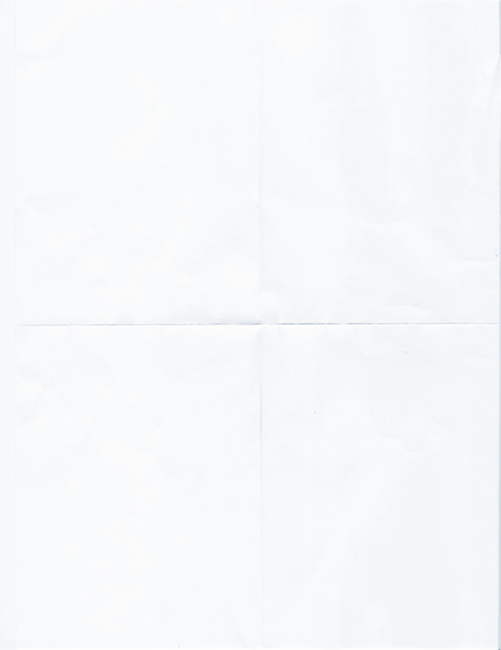
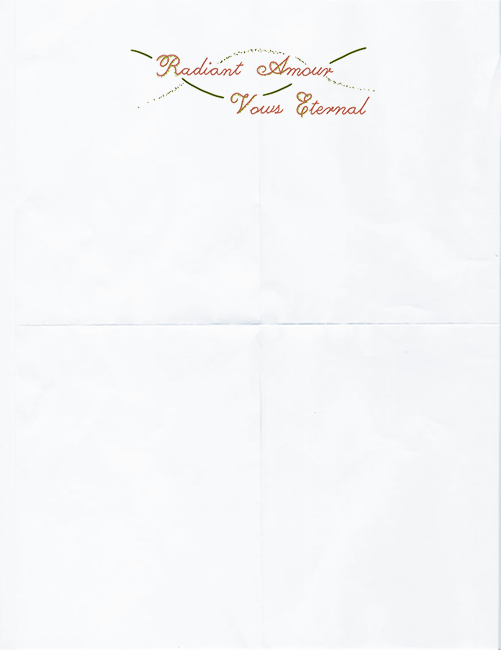
updated letter from intro

Changed region(s): [[0.2695, 0.0615, 0.7485, 0.1846], [0.6886, 0.0615, 0.7186, 0.0923]]

diff --git a/index-fr.html b/index-fr.html
@@ -93,8 +93,20 @@
     <div class="popup"><a>×</a><p>CLIQUEZ ICI<br>POUR NAVIGUER</p><img  src="assets/popup-sign.svg" alt="CLIQUEZ ICI POUR NAVIGUER"></div>
     <div class="content-scroll" id="content">
         <section id="intro">
-            <img class="letter" src="assets/lettre.png"
-                alt="Vous êtes cordialement invités au mariage d'Emma Forgues et Nicolas Levy ! Une fin de semaine célébrant l'amour, le plein air, la musique et la danse. Du 6 au 8 septembre 2024 dans un camp de vacances à 1h de Montréal. Nous espérons vous y voir ! xoxo - Nic & Emma">
+            <img class="letter" src="assets/letter.png" alt="Vous êtes cordialement invités au mariage d'Emma Forgues et Nicolas Levy ! Une fin de semaine célébrant l'amour, le plein air, la musique et la danse; Du 6 au 8 septembre 2024 dans un camp de vacances à 1h de Montréal. Nous espérons vous y voir ! xoxo -- Nic & Emma">
+            <div class="full-letter">
+                <p>Vous êtes cordialement invités
+                    <br>au mariage d'Emma Forgues et Nicolas Levy !
+                    <br><br>Une fin de semaine célébrant l'amour,
+                    <br>le plein air, la musique et la danse;
+                    <br><br>Du 6 au 8 septembre 2024
+                    <br>dans un camp de vacances à 1h de Montréal.
+                    <br><br>Nous espérons vous y voir !
+                    <br><br>xoxo
+                    <br>Nic & Emma
+                </p>
+                <img src="assets/paper.png" alt="">
+            </div>
             <div class="script-letter">
                 <br><br>
                 <p>Vous êtes cordialement invités

diff --git a/index.html b/index.html
@@ -93,9 +93,22 @@
     <div class="popup"><a>×</a><p>CLICK HERE<br>TO NAVIGATE</p><img  src="assets/popup-sign.svg" alt="CLICK HERE TO NAVIGATE"></div>
     <div class="content-scroll" id="content">
         <section id="intro">
-            <img class="letter" src="assets/letter.png"
-                alt="You are cordially invited to Emma Forgues and Nicolas Levy's wedding! A weekend celebration of love, plein air, music and dancing; September 6-8, 2024 at a summer camp 1h from Montreal. We hope to see you there! Nic & Emma -- xoxo">
+            <img class="letter" src="assets/letter.png" alt="You are cordially invited to Emma Forgues and Nicolas Levy's wedding! A weekend celebration of love, plein air, music and dancing; September 6-8, 2024 at a summer camp 1h from Montreal. We hope to see you there! xoxo -- Nic & Emma">
+            <div class="full-letter">
+                <p>You are cordially invited to
+                    <br>Emma Forgues and Nicolas Levy's wedding!
+                    <br><br>A weekend celebration of love,
+                    <br>plein air, music and dancing;
+                    <br><br>September 6-8, 2024
+                    <br>at a summer camp 1h from Montreal.
+                    <br><br>We hope to see you there!
+                    <br><br>xoxo
+                    <br>Nic & Emma
+                </p>
+                <img src="assets/paper.png" alt="">
+            </div>
             <div class="script-letter">
+                <img id="logo" src="assets/logo.png" alt="">
                 <br><br>
                 <p>You are cordially invited to
                     <br>Emma Forgues and Nicolas Levy's wedding!

diff --git a/css/style.css b/css/style.css
@@ -440,12 +440,28 @@ section#location p:first-child {
   text-align: center;
 }
 
-.letter {
-  margin-top: 2vh;
-  filter: drop-shadow(-5px 3px 7px #16151350);
-  z-index: 96;
+.full-letter{
+  position: relative;
+  text-align: center;
+  transform: rotate(-1deg);
 }
 
+.full-letter p{
+  position: absolute;
+  top: 60%;
+  left: 50%;
+  transform: translate(-50%, -60%);
+
+  font-family: 'Biro';
+  font-size: calc(0.2rem + 2vh); /* ~16px */
+}
+
+.full-letter img:last-child{
+  height: 75vmin;
+  z-index: 98;
+}
+
+.letter,
 .script-letter {
   display: none;
 }
@@ -689,8 +705,14 @@ screen and (max-width: 1100px) and (max-height: 700px) {
     height: inherit;
   }
 
-  .letter {
+  .full-letter,
+  .script-letter{
+    display:none;
+  }
+
+  .letter{
     margin-top: 2vh;
+    display:inline;
   }
 
   .sign {
@@ -809,12 +831,18 @@ screen and (max-width: 1100px) and (max-height: 700px) {
     height: 100%;
   }
 
+  .full-letter,
   .letter {
-    display: none;
+    display:none;
   }
 
   .script-letter {
     display: block;
+  }
+
+  .script-letter img{
+    margin-top: 50px;
+    width: 45vw;
   }
 
   .script-letter p {
